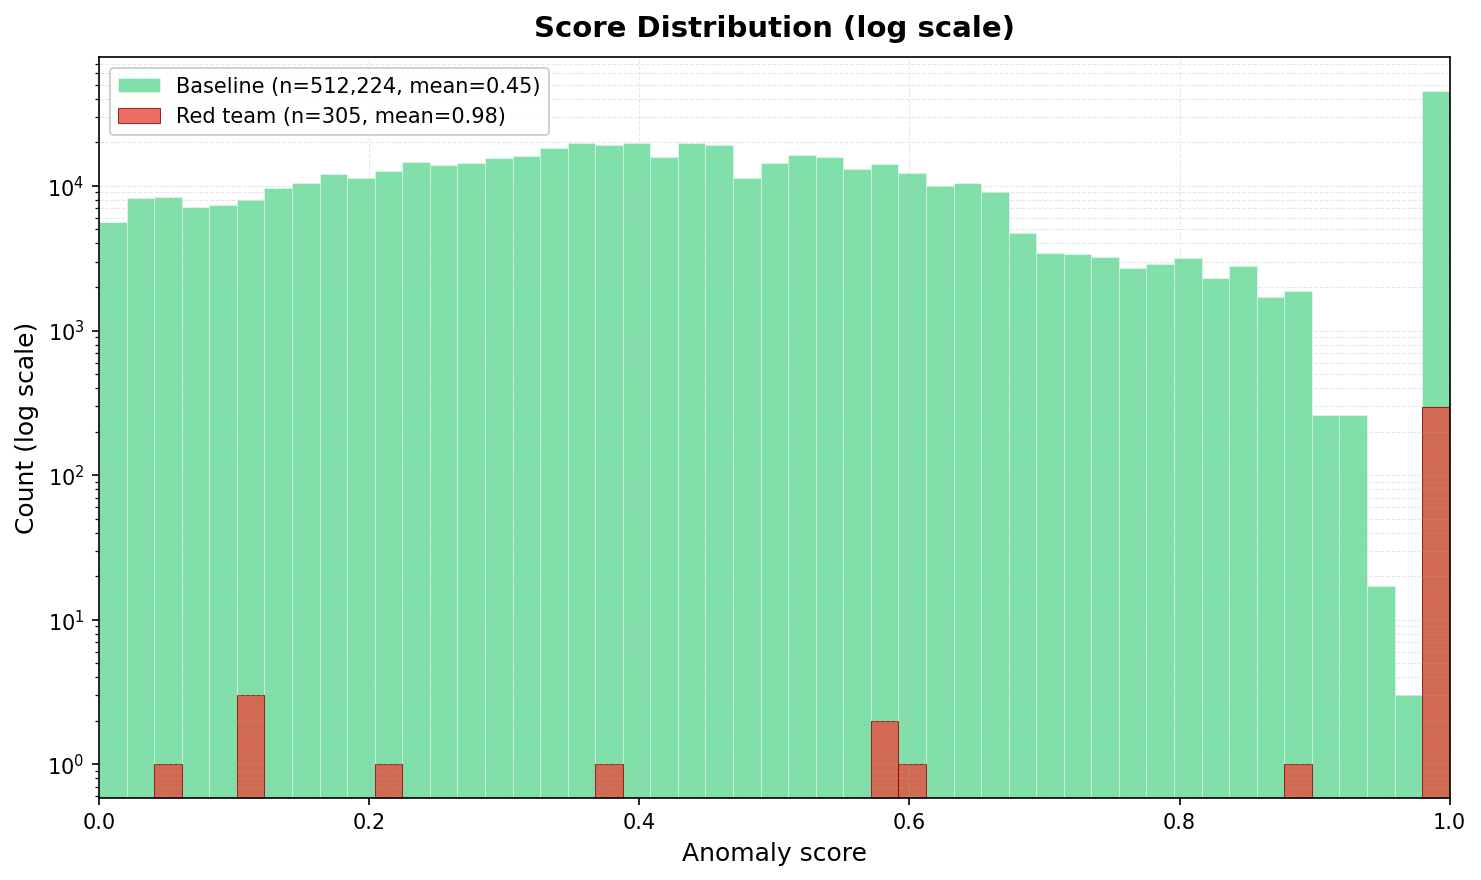
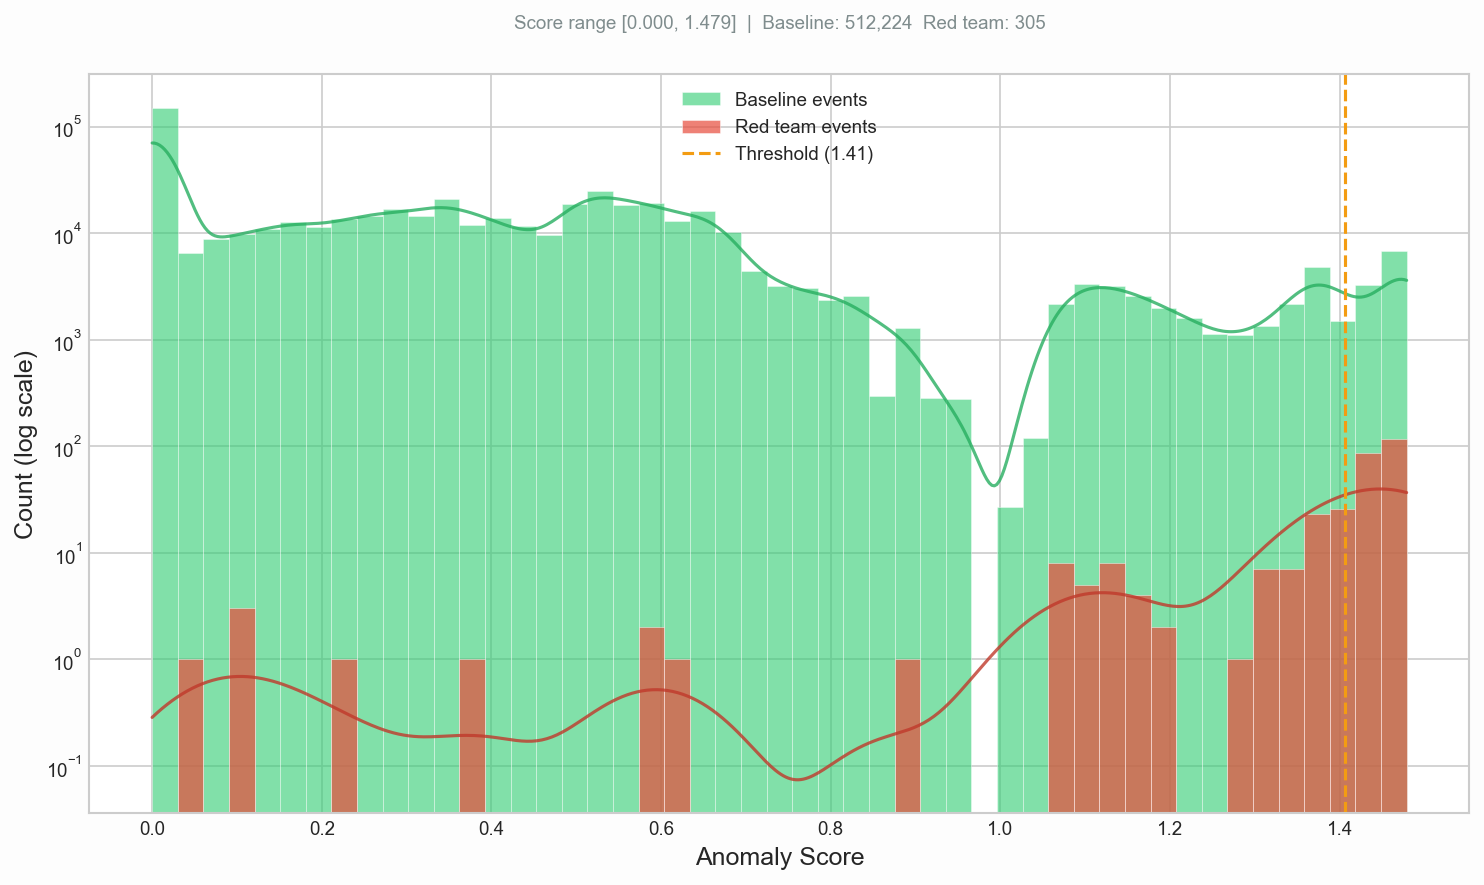
Use friend's score distribution figure; update LaTeX with bimodal distribution description

diff --git a/USENIX_2023/usenix.tex b/USENIX_2023/usenix.tex
@@ -217,16 +217,16 @@ Figure~\ref{fig:roc} presents receiver operating characteristic (ROC) curves for
 \label{fig:roc}
 \end{figure}
 
-Figure~\ref{fig:scores} shows the anomaly score distribution for all 512,529 edges in the combined method on a log-scale y-axis. Red-team edges (orange, n=305) have mean score 0.98, concentrated near 1.0. Baseline edges (green, n=512,224) have mean score 0.45, spread broadly with a spike at 1.0 from path boosting.
+Figure~\ref{fig:scores} shows the anomaly score distribution for all 512,529 edges in the combined method on a log-scale y-axis, with KDE curves overlaid. Scores range from 0.0 to 1.48, with a clear bimodal distribution: a large cluster at 0.0--1.0 (baseline edges) and a smaller cluster at 1.0--1.48 (path-boosted edges). Red-team edges (orange, n=305) concentrate in the high-score cluster, while baseline edges (green, n=512,224) span both clusters. The dashed orange line marks the detection threshold at 1.41.
 
 \begin{figure}[htbp]
 \centering
 \includegraphics[width=0.95\columnwidth]{score_distribution.png}
-\caption{Anomaly score distribution for the combined method (log scale). Red-team edges (orange, n=305) have mean score 0.98. Baseline edges (green, n=512,224) have mean score 0.45, with a spike at 1.0 from path boosting. \textit{(Figure by: Wesley Gunawan)}}
+\caption{Anomaly score distribution for the combined method (log scale, with KDE curves). Score range [0.00, 1.48]. Red-team edges (orange, n=305) concentrate at high scores. Baseline edges (green, n=512,224) span the full range. The dashed line marks the detection threshold (1.41). \textit{(Figure by: Wesley Gunawan)}}
 \label{fig:scores}
 \end{figure}
 
-This figure shows the scoring function separates attack edges from baseline: red-team edges score 2.2$\times$ higher on average (0.98 vs. 0.45). The spike at 1.0 in the baseline distribution is caused by path boosting (Section~4.4), which adds $0.1 \times \text{path\_score}$ to edges in top-50 suspicious paths. This highlights a key trade-off: path boosting improves recall but inflates false positives.
+This figure shows the scoring function separates attack edges from baseline: red-team edges concentrate in the high-score cluster (1.0--1.48) created by path boosting. The bimodal distribution reflects the path boost mechanism (Section~4.4), which adds $0.1 \times \text{path\_score}$ to edges in top-50 suspicious paths, pushing them above 1.0. The threshold at 1.41 separates the most suspicious edges from the rest. This highlights a key trade-off: path boosting creates a distinct high-score cluster that captures attack edges, but also pulls some baseline edges into that cluster, inflating false positives.
 
 
 \begin{table}[h]

diff --git a/src/scorer.py b/src/scorer.py
@@ -297,14 +297,14 @@ def score_paths(
     df = pd.DataFrame(all_paths)
     df = df.sort_values("path_score", ascending=False).head(top_k).reset_index(drop=True)
 
-    # Apply path boost: 0.1 * path_score to each edge in top-50 paths, capped at 1.0
+    # Apply path boost: 0.1 * path_score to each edge in top-50 paths (no cap)
     boost_factor = 0.1
     for _, row in df.iterrows():
         path_score = row["path_score"]
         path_edges = row["path_edges"]
         for eid in path_edges:
             if eid < len(edge_scores_arr):
-                edge_scores_arr[eid] = min(edge_scores_arr[eid] + boost_factor * path_score, 1.0)
+                edge_scores_arr[eid] = edge_scores_arr[eid] + boost_factor * path_score
 
     boosted_scores = pd.Series(edge_scores_arr, index=pd.Index(range(len(edge_scores_arr)), name="edge_index"), name="score")
     return df, boosted_scores